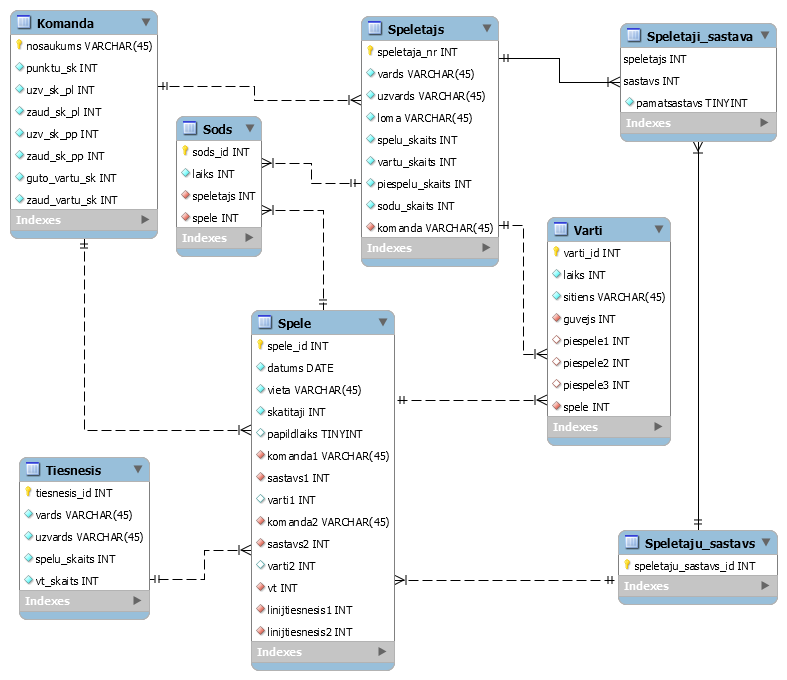
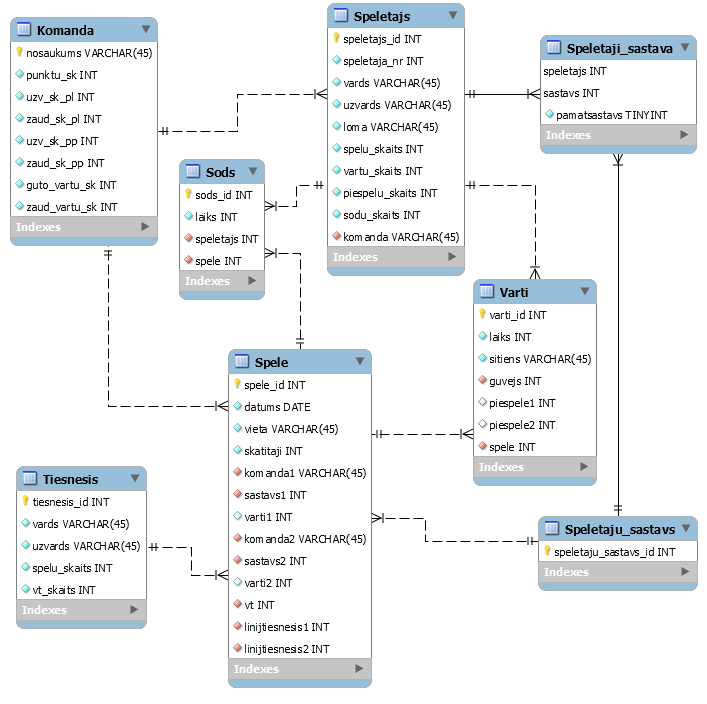
Fixed player add bug

diff --git a/parse_data.py b/parse_data.py
@@ -46,7 +46,6 @@ for file in file_list:
 
     # satures vartu skaitu abam komandam, lai veiktu apkopojumu
     result = [0, 0]
-    team_counter = 0
     overtime = False
 
     teams_playing = []
@@ -64,7 +63,7 @@ for file in file_list:
         # Ja komanda ar atrasto nosaukumu nav DB, tad taa tiek pievienota.
         cursor.execute("INSERT OR IGNORE INTO Komanda (nosaukums) VALUES (?)", (team_name,))
 
-
+    team_counter = 0
     # Nodefinee speletajus
     for child in root:
 
@@ -76,6 +75,7 @@ for file in file_list:
             continue
 
 
+
         for player in player_list:
             
             loma = player.get("Loma")
@@ -83,8 +83,26 @@ for file in file_list:
             uzvards = player.get("Uzvards")
             nr = player.get("Nr")
 
-            cursor.execute("INSERT OR IGNORE INTO Speletajs (speletaja_nr, vards, uzvards, loma, komanda) VALUES (?, ?, ?, ?, ?)",
-                           (nr, vards, uzvards, loma, child.get("Nosaukums")))
+            player_exists = False
+
+            for row in cursor.execute("SELECT count(*) FROM Speletajs WHERE speletaja_nr = (?) AND komanda = (?)",
+                                      (nr, teams_playing[team_counter])):
+                if row[0] != 0:
+                    player_exists = True
+
+            if player_exists:
+                continue
+
+            player_id = 0  # unikalais speles id
+            for row in cursor.execute("SELECT count(*) FROM Speletajs"):
+                player_id = row[0] + 1
+
+            # TODO: Check if player has a number on team
+            cursor.execute("INSERT INTO Speletajs (speletajs_id, speletaja_nr, vards, uzvards, loma, komanda) VALUES (?, ?, ?, ?, ?, ?)",
+                           (player_id, nr, vards, uzvards, loma, child.get("Nosaukums")))
+
+
+        team_counter += 1
 
 
     # TODO: FUNCTION FOR THIS!
@@ -136,6 +154,7 @@ for file in file_list:
             linijtiesnesi.append(row[0])
 
 
+    team_counter = 0
     # Izveido speletaju sastavus
     for child in root:
 
@@ -176,9 +195,10 @@ for file in file_list:
                            (player_nr[i], sastavs_id, main_player[i]))
 
             # Palielina katra speletaju spelu skaitu par 1
-            cursor.execute("UPDATE Speletajs SET spelu_skaits = spelu_skaits + 1 WHERE speletaja_nr = (?)", (player_nr[i],))
+            cursor.execute("UPDATE Speletajs SET spelu_skaits = spelu_skaits + 1 WHERE speletaja_nr = (?) AND komanda = (?)", (player_nr[i], teams_playing[team_counter]))
 
         sastavi_spele.append(sastavs_id)
+        team_counter += 1
 
 
     # TODO: Parbaude, ka viena komanda nevar spelet 2x viena diena
@@ -187,8 +207,8 @@ for file in file_list:
                   (game_id, game_date, game_location, game_spectator_count, teams_playing[0], sastavi_spele[0],
                    teams_playing[1], sastavi_spele[1], virstiesnesis, linijtiesnesi[0], linijtiesnesi[1]))
 
-
     # Nodefinee sodus
+    team_counter = 0
     for child in root:
 
         sodi_list = child.find("Sodi")
@@ -208,10 +228,13 @@ for file in file_list:
             cursor.execute("INSERT INTO Sods (sods_id, laiks, speletajs, spele) VALUES (?, ?, ?, ?)", (sods_id, laiks, nr, game_id))
 
             # Papildina speletaja sodu skaitu
-            cursor.execute("UPDATE Speletajs SET sodu_skaits = sodu_skaits + 1 WHERE speletaja_nr = (?)", (nr,))
+            cursor.execute("UPDATE Speletajs SET sodu_skaits = sodu_skaits + 1 WHERE speletaja_nr = (?) AND komanda = (?)", (nr, teams_playing[team_counter]))
+
+        team_counter += 1
 
 
     # Apstrada vartu guvumus
+    team_counter = 0
     for child in root:
 
         goal_list = child.find("Varti")
@@ -245,7 +268,7 @@ for file in file_list:
                 piespeles.append(piespele.get("Nr"))
 
                 # Papildina speletaja piespelu skaitu
-                cursor.execute("UPDATE Speletajs SET piespelu_skaits = piespelu_skaits + 1 WHERE speletaja_nr = (?)", (piespele.get("Nr"),))
+                cursor.execute("UPDATE Speletajs SET piespelu_skaits = piespelu_skaits + 1 WHERE speletaja_nr = (?) AND komanda = (?)", (piespele.get("Nr"), teams_playing[team_counter]))
 
             # Izmanto query atkariba no piespelu skaita
             if len(piespeles) == 0:
@@ -262,7 +285,7 @@ for file in file_list:
                                (goal_id, laiks, sitiens, guvejs, piespeles[0], piespeles[1], piespeles[2], game_id))
 
             # Papildina speletaja vartu skaitu
-            cursor.execute("UPDATE Speletajs SET vartu_skaits = vartu_skaits + 1 WHERE speletaja_nr = (?)", (guvejs,))
+            cursor.execute("UPDATE Speletajs SET vartu_skaits = vartu_skaits + 1 WHERE speletaja_nr = (?) AND komanda = (?)", (guvejs, teams_playing[team_counter]))
 
         team_counter += 1
 
@@ -311,6 +334,9 @@ for file in file_list:
 
     cursor.execute("UPDATE Komanda SET guto_vartu_sk = guto_vartu_sk + (?) WHERE nosaukums = (?)", (result[1], teams_playing[1]))
     cursor.execute("UPDATE Komanda SET zaud_vartu_sk = zaud_vartu_sk + (?) WHERE nosaukums = (?)", (result[0], teams_playing[1]))
+
+    # Ieraksta gala rezultatu speles tabula
+    cursor.execute("UPDATE Spele SET varti1 = (?), varti2 = (?), papildlaiks = (?) WHERE spele_id = (?)", (result[0], result[1], int(overtime), game_id))
 
 
 conn.commit()

diff --git a/stats.py b/stats.py
@@ -12,7 +12,7 @@ for row in cursor.execute("SELECT nosaukums, punktu_sk, uzv_sk_pl, zaud_sk_pl, u
 
 print("---------------------------------------------")
 # Turnira 10 rezultativakie speletaji
-for row in cursor.execute("SELECT vards, uzvards, komanda, speletaja_nr, vartu_skaits, piespelu_skaits FROM Speletajs ORDER BY vartu_skaits DESC, piespelu_skaits DESC"):
+for row in cursor.execute("SELECT vards, uzvards, komanda, speletaja_nr, vartu_skaits, piespelu_skaits FROM Speletajs ORDER BY vartu_skaits DESC, piespelu_skaits DESC LIMIT 10"):
     print(row)
 
 # print("---------------------------------------------")
